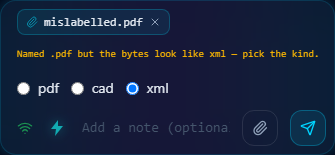
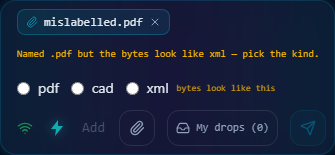
fix(ingest): an ambiguous kind asks — nothing pre-selected, Send held; redproofs for reopen and dup-id leak

diff --git a/src/components/NeuralStream/InputBar.ingest.test.tsx b/src/components/NeuralStream/InputBar.ingest.test.tsx
@@ -246,13 +246,18 @@ describe("send", () => {
     expect(send.disabled).toBe(false);
   });
 
-  it("a .pdf whose bytes are <?xml shows the picker with xml pre-selected, and the reason", async () => {
+  it("a .pdf whose bytes are <?xml ASKS: reason shown, xml hinted but NOT selected, no kind in the store, Send disabled", async () => {
     const r = render(<InputBar />);
     await attach(r, new File(["<?xml version=\"1.0\"?><a/>"], "mislabelled.pdf"));
     expect(document.querySelector("[data-ingest-kind-inferred]")).toBeNull();
     expect(document.querySelector("[data-ingest-kind-reason]")?.textContent).toMatch(/.pdf.*xml/);
-    expect((document.querySelector('[data-ingest-kind="xml"] input') as HTMLInputElement).checked).toBe(true);
-    expect((document.querySelector('[data-ingest-kind="pdf"] input') as HTMLInputElement).checked).toBe(false);
+    expect(document.querySelectorAll("[data-ingest-kind] input:checked").length).toBe(0);
+    expect(document.querySelector('[data-ingest-kind="xml"] [data-ingest-kind-sniffed]')).not.toBeNull();
+    expect(document.querySelectorAll("[data-ingest-kind-sniffed]").length).toBe(1);
+    expect(useIngestComposerStore.getState().kind).toBeNull();
+    expect((r.getByRole("button", { name: "Send" }) as HTMLButtonElement).disabled).toBe(true);
+    fireEvent.click(document.querySelector('[data-ingest-kind="xml"] input')!);
+    expect((r.getByRole("button", { name: "Send" }) as HTMLButtonElement).disabled).toBe(false);
   });
 
   it("an ambiguous file with nothing to pre-select keeps Send disabled until a kind is picked", async () => {

diff --git a/src/components/ingest/KindPicker.tsx b/src/components/ingest/KindPicker.tsx
@@ -29,9 +29,11 @@ export interface KindPickerProps {
    *  there is no Confirm button — the composer's Send is the confirmation. */
   onSelect?: (kind: IngestKind) => void;
   inline?: boolean;
+  /** What the file's bytes look like (ambiguity only): a hint on that option, NEVER a selection. */
+  sniffedKind?: string | null;
 }
 
-export function KindPicker({ suggestedKind = null, onConfirm, confirming, blockedReason, onSelect, inline }: KindPickerProps) {
+export function KindPicker({ suggestedKind = null, onConfirm, confirming, blockedReason, onSelect, inline, sniffedKind = null }: KindPickerProps) {
   const suggestionValid =
     suggestedKind !== null && (INGEST_UPLOAD_KINDS as readonly string[]).includes(suggestedKind);
   const [selected, setSelected] = useState<IngestKind | null>(
@@ -64,6 +66,11 @@ export function KindPicker({ suggestedKind = null, onConfirm, confirming, blocke
               }}
             />
             {k}
+            {sniffedKind === k && (
+              <span className="text-[9px] font-mono text-amber-400/80" data-ingest-kind-sniffed={k}>
+                bytes look like this
+              </span>
+            )}
           </label>
         ))}
       </div>

diff --git a/src/store/useIngestComposerStore.ts b/src/store/useIngestComposerStore.ts
@@ -67,9 +67,9 @@ export const useIngestComposerStore = create<State>()((set, get) => ({
     const inferred = await inferUploadKind(file);
     // A newer attach or a removed chip wins over a slow read.
     if (get().file !== file) return;
-    // Unambiguous: the kind is set, no question asked. Ambiguous: pre-select what the bytes say
-    // (if they say anything); the dropper sees the reason and can change it.
-    set({ inferred, kind: inferred.ambiguous ? inferred.sniffed : inferred.kind });
+    // Unambiguous: the kind is set, no question asked. Ambiguous: NOTHING is selected — the
+    // dropper must ask-and-answer (the picker only hints what the bytes look like).
+    set({ inferred, kind: inferred.ambiguous ? null : inferred.kind });
   },
   setKind: (kind) => set({ kind }),
   clearDraft: () => set({ file: null, kind: null, inferred: null }),

diff --git a/src/components/ingest/ingestDuplicateOriginal.test.tsx b/src/components/ingest/ingestDuplicateOriginal.test.tsx
@@ -75,7 +75,8 @@ function everything(root: HTMLElement): string[] {
 describe("a duplicate shows the original", () => {
   it("the dup row's uuid is absent from the turn's text and from every attribute", async () => {
     const r = await dropDuplicate(dupResponse());
-    await waitFor(() => expect(r.container.querySelector("[data-ingest-status]")).not.toBeNull());
+    // Precondition: the ORIGINAL's card has rendered with its fetched badge, so the leak check below is reached.
+    await waitFor(() => expect(r.container.querySelector(`[data-ingest-id="${ORIG}"] [data-ingest-status]`)?.textContent).toBe("review"));
     const hits = everything(r.container as HTMLElement).filter((s) => s.includes(DUP));
     expect(hits, "the duplicate row's own id leaked into the DOM").toEqual([]);
     expect(r.container.textContent).not.toContain(DUP);

diff --git a/src/components/NeuralStream/InputBar.tsx b/src/components/NeuralStream/InputBar.tsx
@@ -144,7 +144,7 @@ export function InputBar() {
                   <KindPicker
                     key={`${chipFile.name}:${chipFile.size}:${chipFile.lastModified}`}
                     inline
-                    suggestedKind={chipInferred.sniffed}
+                    sniffedKind={chipInferred.sniffed}
                     onConfirm={() => {}}
                     onSelect={(k) => useIngestComposerStore.getState().setKind(k)}
                     blockedReason={
